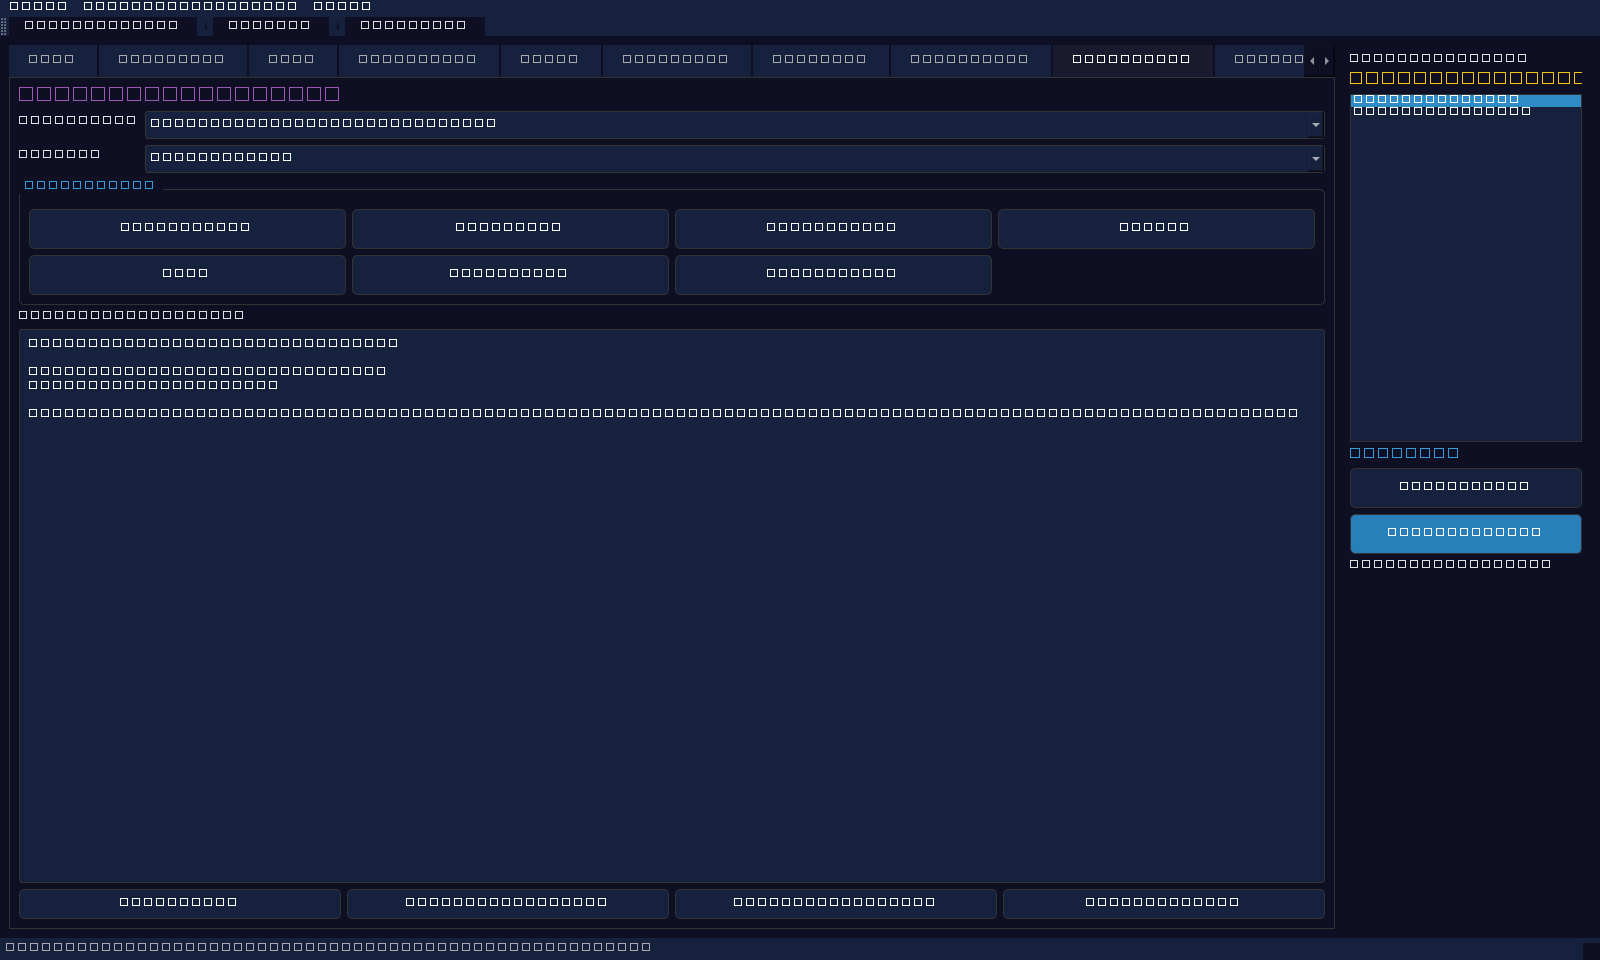
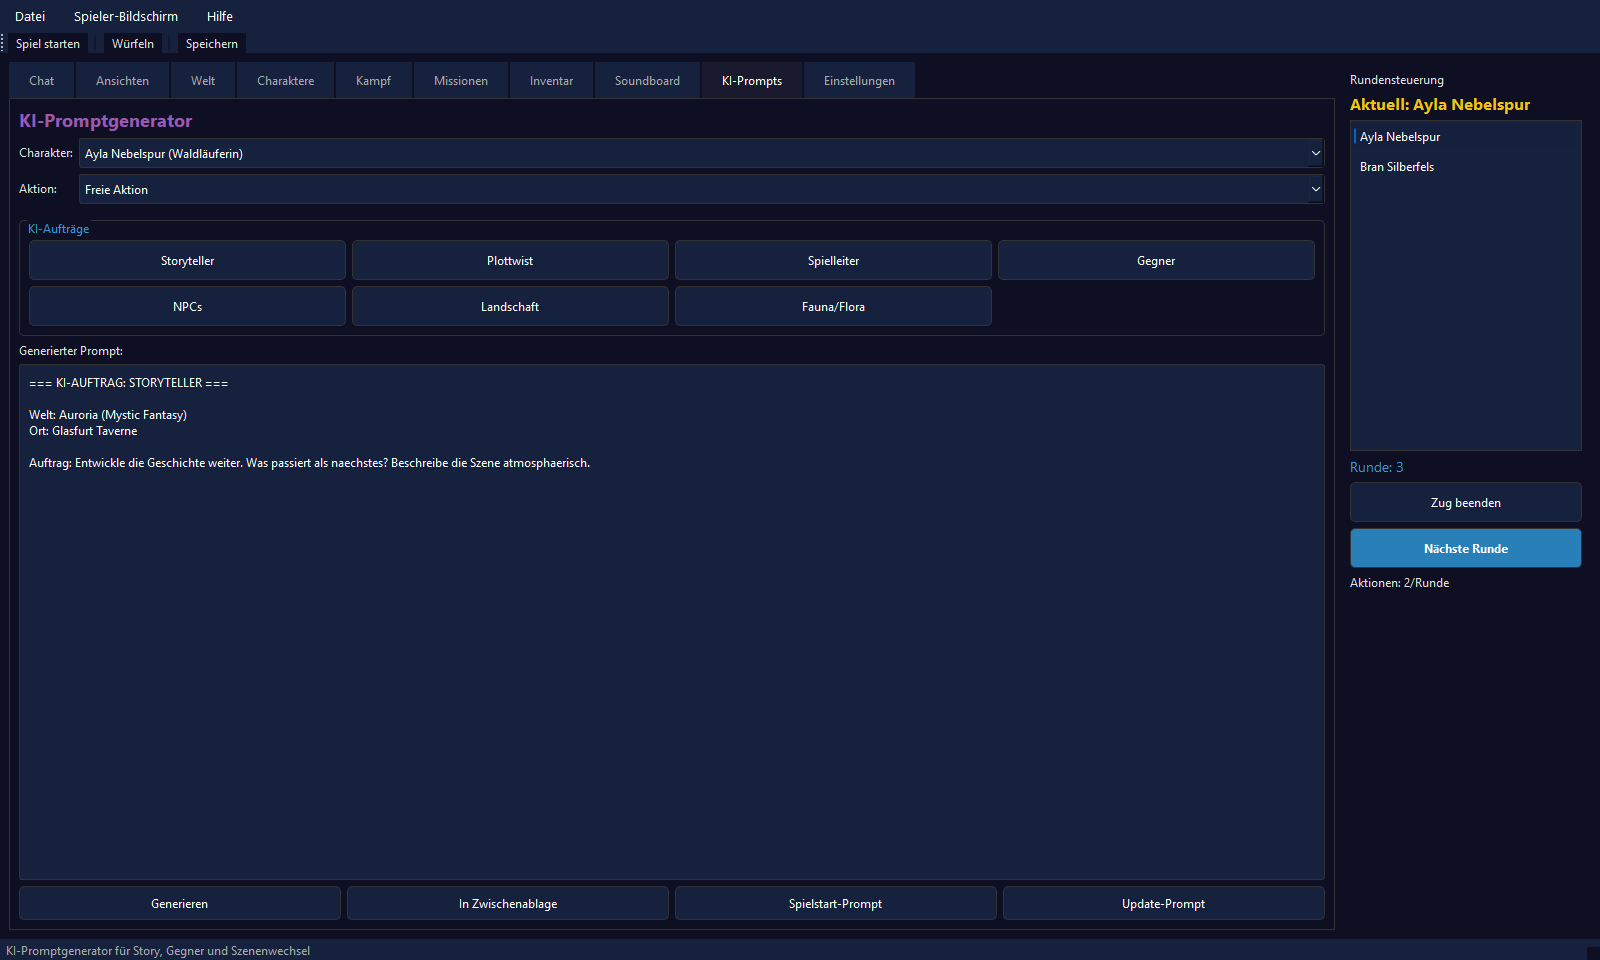
fix: render readable store screenshots

diff --git a/rpx_pro/widgets/player_screen.py b/rpx_pro/widgets/player_screen.py
@@ -220,14 +220,19 @@ class PlayerScreen(QMainWindow):
         grid.setSpacing(8)
 
         tile_style = """
-            QFrame {{
+            QFrame {
                 background-color: #111;
                 border: 1px solid #333;
                 border-radius: 8px;
-            }}
-            QLabel {{
+            }
+            QScrollArea, QScrollArea::viewport {
+                background-color: #111;
+                border: none;
+            }
+            QLabel {
+                background-color: transparent;
                 color: #e0e0e0;
-            }}
+            }
         """
 
         # Sammle aktive Kacheln
@@ -244,11 +249,13 @@ class PlayerScreen(QMainWindow):
             chars_layout.addWidget(chars_header)
             self.tile_chars_list = QVBoxLayout()
             tile_chars_container = QWidget()
+            tile_chars_container.setStyleSheet("background-color: #111;")
             tile_chars_container.setLayout(self.tile_chars_list)
             tile_chars_scroll = QScrollArea()
             tile_chars_scroll.setWidget(tile_chars_container)
             tile_chars_scroll.setWidgetResizable(True)
-            tile_chars_scroll.setStyleSheet("QScrollArea { border: none; background: transparent; }")
+            tile_chars_scroll.setStyleSheet(
+                "QScrollArea, QScrollArea::viewport { border: none; background-color: #111; }")
             chars_layout.addWidget(tile_chars_scroll)
             active_tiles.append(chars_tile)
 
@@ -263,11 +270,13 @@ class PlayerScreen(QMainWindow):
             miss_layout.addWidget(miss_header)
             self.tile_missions_list = QVBoxLayout()
             tile_miss_container = QWidget()
+            tile_miss_container.setStyleSheet("background-color: #111;")
             tile_miss_container.setLayout(self.tile_missions_list)
             tile_miss_scroll = QScrollArea()
             tile_miss_scroll.setWidget(tile_miss_container)
             tile_miss_scroll.setWidgetResizable(True)
-            tile_miss_scroll.setStyleSheet("QScrollArea { border: none; background: transparent; }")
+            tile_miss_scroll.setStyleSheet(
+                "QScrollArea, QScrollArea::viewport { border: none; background-color: #111; }")
             miss_layout.addWidget(tile_miss_scroll)
             active_tiles.append(miss_tile)
 

diff --git a/tests/test_store_screenshots.py b/tests/test_store_screenshots.py
@@ -9,6 +9,21 @@ from generate_store_screenshots import SCREENSHOT_FILES, SUMMARY_FILE, generate_
 
 
 class StoreScreenshotGenerationTests(unittest.TestCase):
+    def test_generator_uses_native_text_rendering_for_store_captures(self):
+        source = Path(__file__).resolve().parents[1] / "generate_store_screenshots.py"
+        content = source.read_text(encoding="utf-8")
+
+        self.assertIn('os.environ.pop("QT_QPA_PLATFORM", None)', content)
+        self.assertIn("WA_DontShowOnScreen", content)
+
+        player_screen = Path(__file__).resolve().parents[1] / "rpx_pro" / "widgets" / "player_screen.py"
+        player_content = player_screen.read_text(encoding="utf-8")
+        self.assertNotIn("QFrame {{", player_content)
+        self.assertIn("QScrollArea::viewport", player_content)
+        self.assertIn('tile_chars_container.setStyleSheet("background-color: #111;")', player_content)
+        self.assertIn('tile_miss_container.setStyleSheet("background-color: #111;")', player_content)
+        self.assertIn("background-color: transparent", player_content)
+
     def test_generator_writes_all_expected_pngs_and_summary(self):
         with tempfile.TemporaryDirectory(prefix="rpx-store-test-") as tmpdir:
             output_dir = Path(tmpdir)

diff --git a/generate_store_screenshots.py b/generate_store_screenshots.py
@@ -13,7 +13,9 @@ from dataclasses import dataclass
 from pathlib import Path
 from typing import Any
 
-os.environ.setdefault("QT_QPA_PLATFORM", "offscreen")
+# Store screenshots need Qt's native text renderer.  The offscreen backend is
+# appropriate for headless tests, but renders missing-glyph boxes on Windows.
+os.environ.pop("QT_QPA_PLATFORM", None)
 os.environ.setdefault("QT_SCALE_FACTOR", "1")
 
 PROJECT_ROOT = Path(__file__).resolve().parent
@@ -432,6 +434,8 @@ def _seed_demo_state(app: QApplication, modules: RuntimeModules) -> DemoContext:
 
 
 def _save_widget(widget: Any, target: Path, app: QApplication) -> None:
+    # Keep the capture native without flashing a visible window to the user.
+    widget.setAttribute(Qt.WidgetAttribute.WA_DontShowOnScreen, True)
     widget.show()
     widget.raise_()
     widget.activateWindow()
